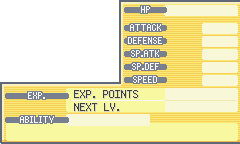
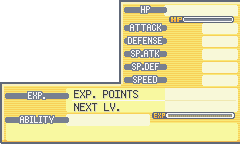
- UPSSkillsBox.png 이미지 수정 (HP바, EXP바 추가) - SkillsBox의 HpBar 위치 조정

Changed region(s): [[0.6125, 0.7778, 0.9917, 0.8333], [0.7, 0.1111, 0.9917, 0.1667]]

diff --git a/PokemonFireRed/Pokemon/PokemonSummaryPage.cpp b/PokemonFireRed/Pokemon/PokemonSummaryPage.cpp
@@ -135,7 +135,7 @@ void APokemonSummaryPage::BeginPlay()
 	NextLevelExpText = CreateText(SkillsBox, L"172", EPivotType::RightTop, EAlignType::Right, -3, 111, EFontColor::Black);
 	AbilityText = CreateText(SkillsBox, L"KEEN EYE", EPivotType::LeftTop, EAlignType::Left, 74, 124, EFontColor::Black);
 	AbilityExplainText = CreateText(SkillsBox, L"Prevents loss of accuracy.", EPivotType::LeftBot, EAlignType::Left, 10, -5, EFontColor::Black);
-	HpBar = CreateScrollBar(SkillsBox, EScrollType::Hp, 100, 100, EPivotType::RightTop, 55, 34);
+	HpBar = CreateScrollBar(SkillsBox, EScrollType::Hp, 100, 100, EPivotType::RightTop, -55, 18);
 	ExpBar = CreateScrollBar(SkillsBox, EScrollType::Exp, 100, 100, EPivotType::RightBot, -71, -29);
 }
 

diff --git a/PokemonFireRed/Pokemon/PokemonUILevel.cpp b/PokemonFireRed/Pokemon/PokemonUILevel.cpp
@@ -41,5 +41,4 @@ void UPokemonUILevel::LevelStart(ULevel* _PrevLevel)
 		Page->Reset();
 		Page->RefreshAll();
 	}
-
 }
